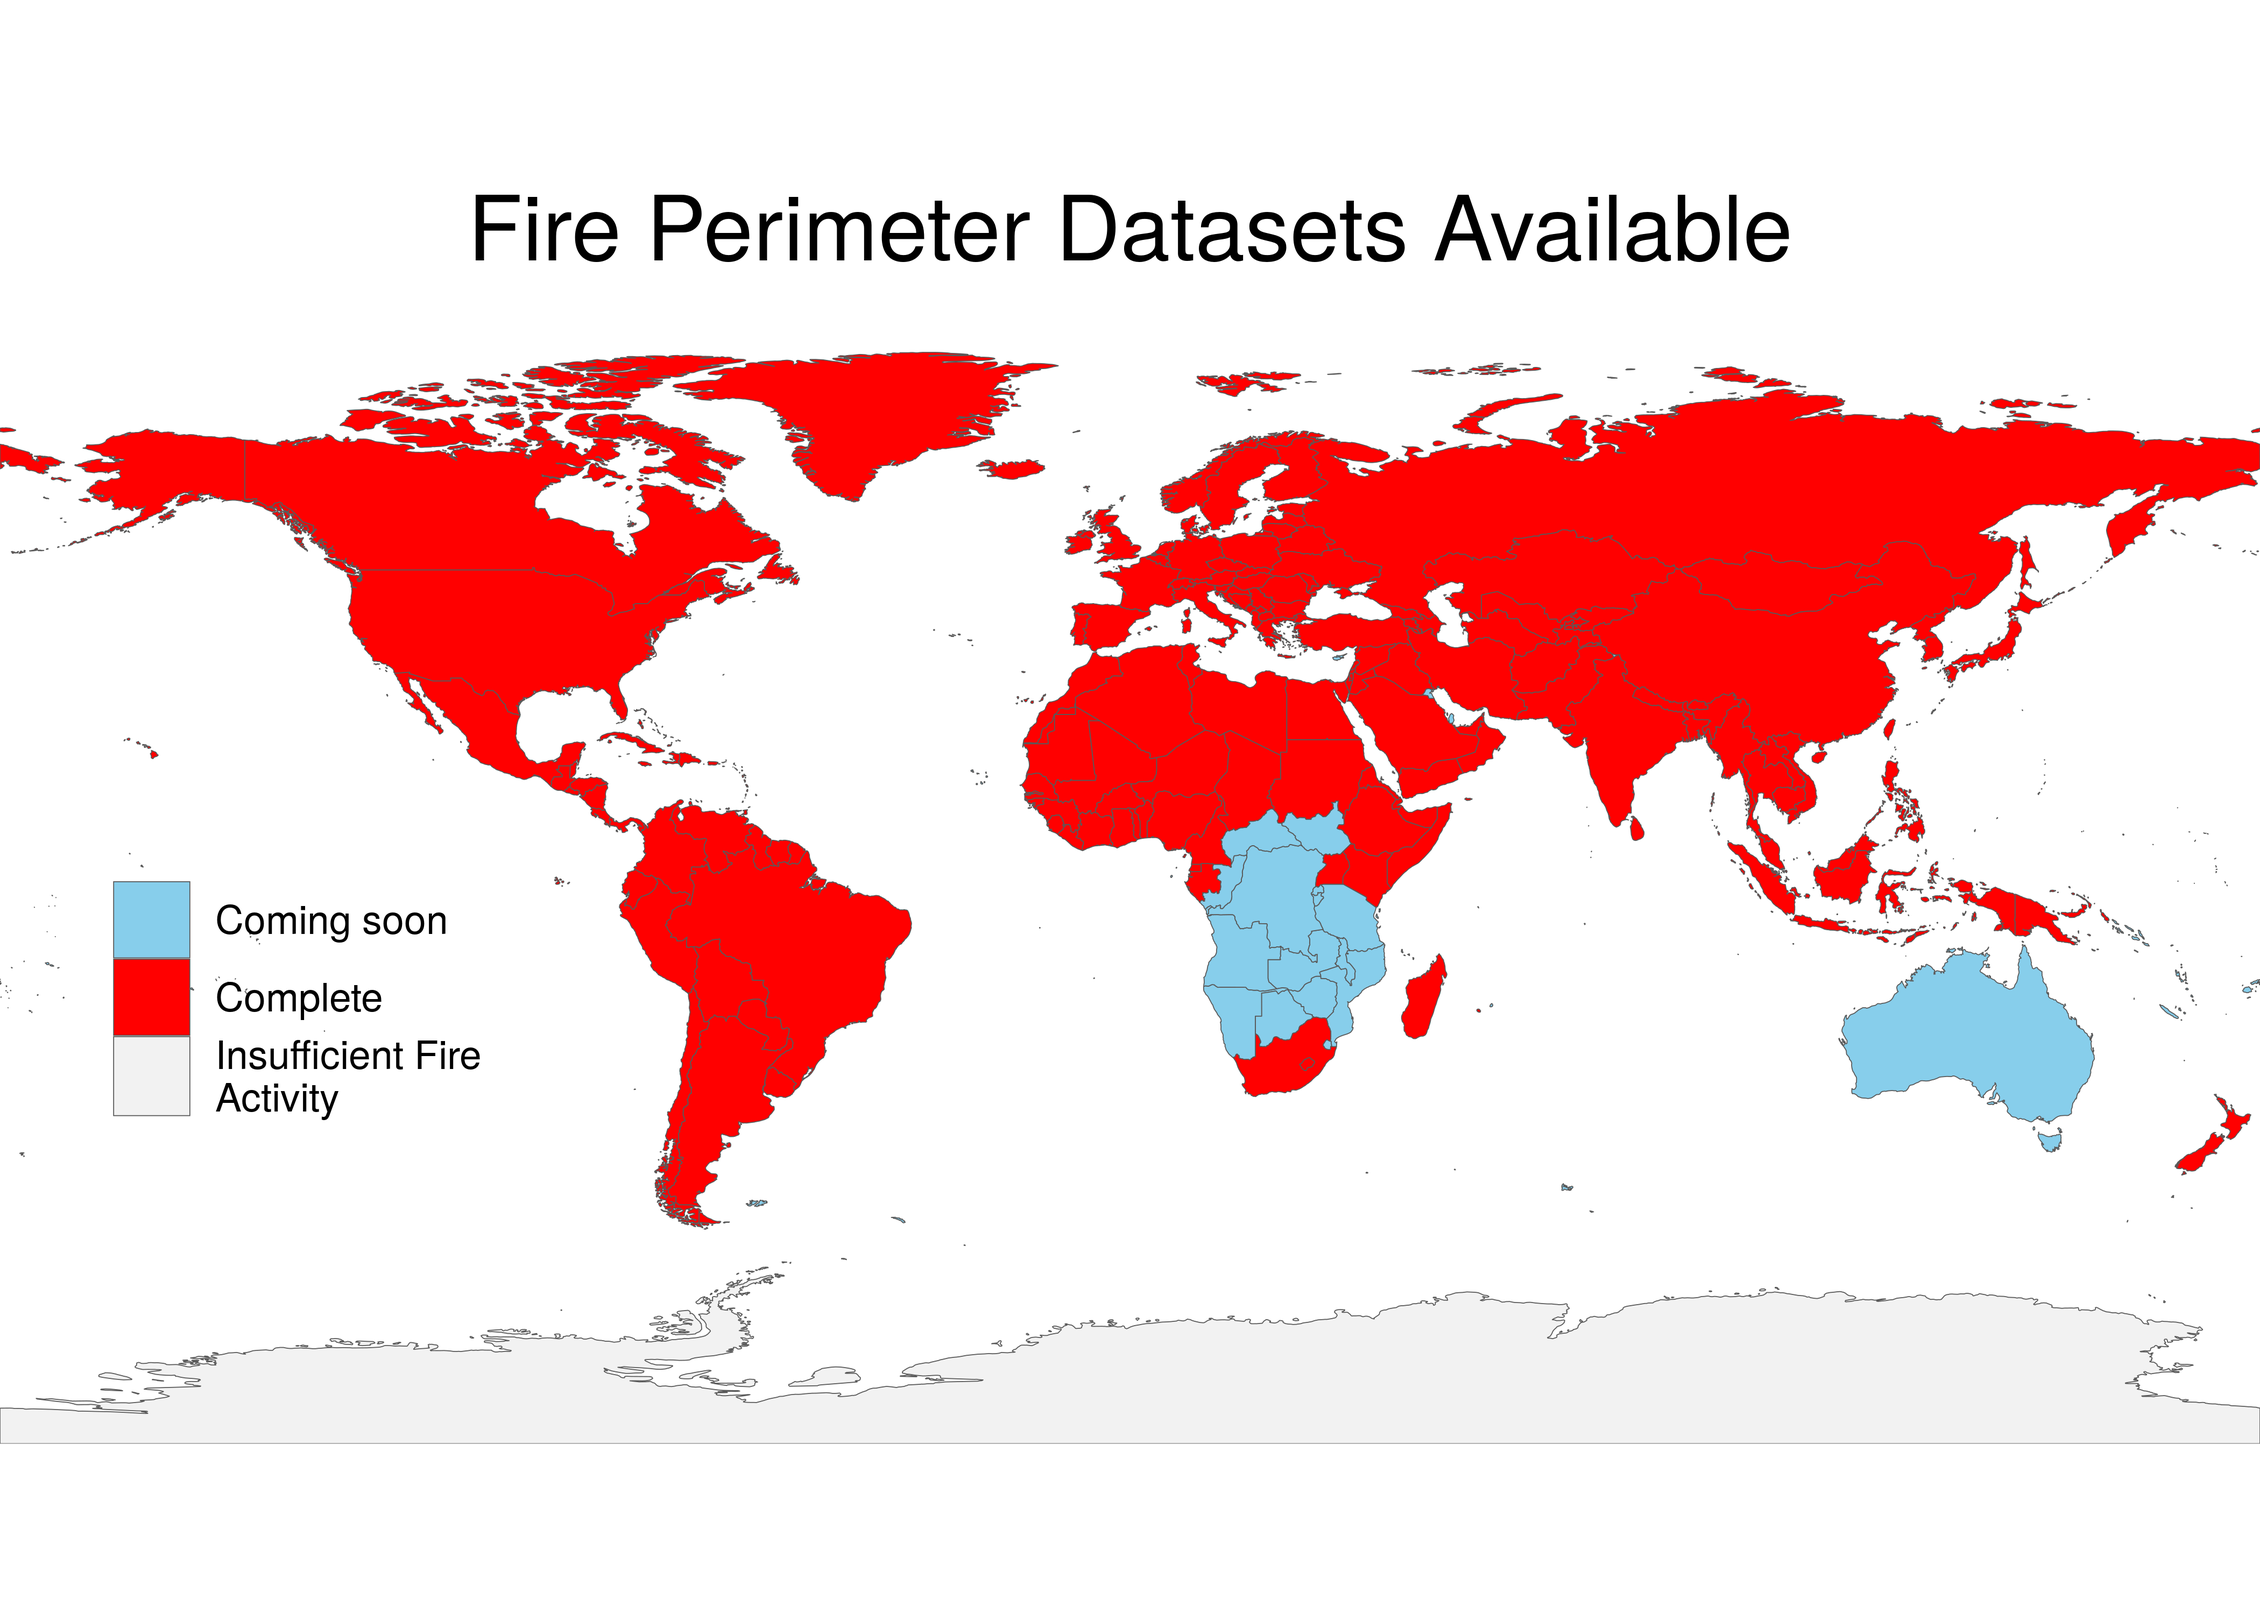
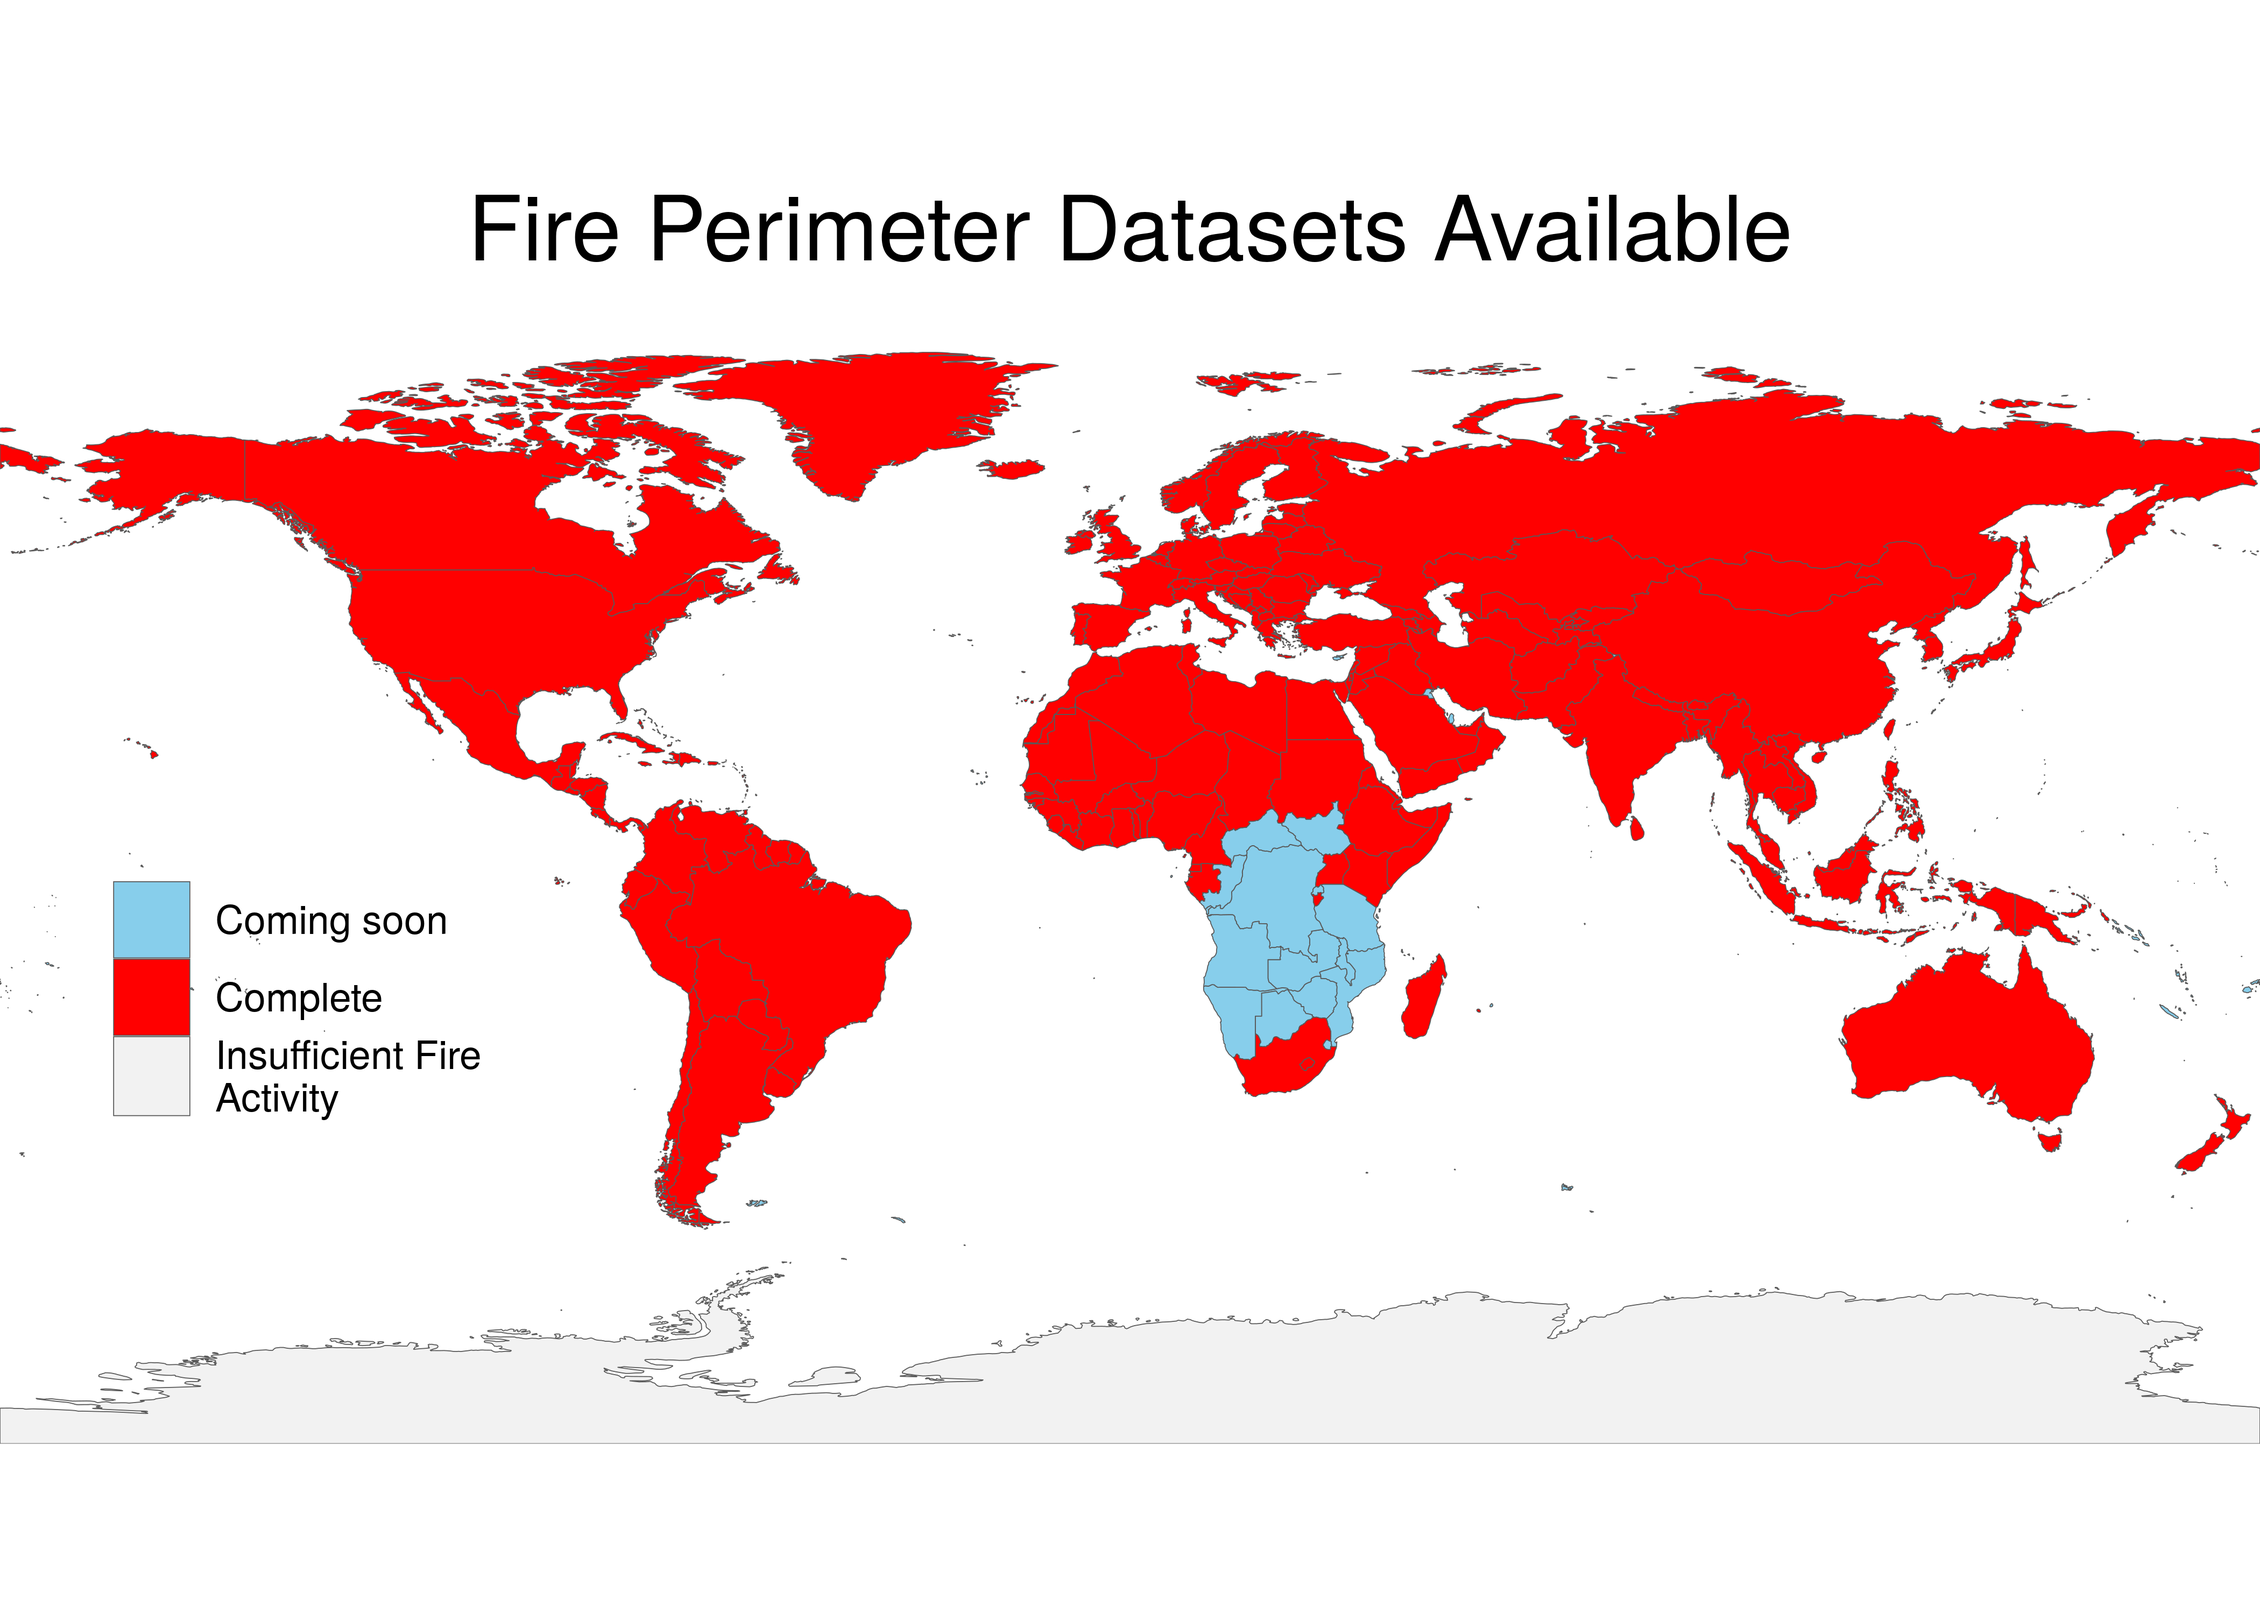
j

Changed region(s): [[0.811, 0.589, 0.9357, 0.713]]

diff --git a/README.md b/README.md
@@ -64,6 +64,7 @@ We currently have fire histories from November 2000 - May 2021 for:
  - [UK and Ireland](https://scholar.colorado.edu/concern/datasets/pc289k33c)
 
 ### Africa
+
  - [Senegal](https://scholar.colorado.edu/concern/datasets/tt44pp176)
  - [The Gambia](https://scholar.colorado.edu/concern/datasets/pn89d7911)
  - [Morocco](https://scholar.colorado.edu/concern/datasets/td96k3751)
@@ -96,8 +97,10 @@ We currently have fire histories from November 2000 - May 2021 for:
  - [Lesotho](https://scholar.colorado.edu/concern/datasets/cr56n229w)
  - [Uganda](https://scholar.colorado.edu/concern/datasets/hh63sx004)
  - [Kenya](https://scholar.colorado.edu/concern/datasets/1j92g871c)
+ - [Burundi](https://scholar.colorado.edu/concern/datasets/3f462659h)
 
 ### Asia
+
  - [China](https://scholar.colorado.edu/concern/datasets/qz20st810)
  - [India](https://scholar.colorado.edu/concern/datasets/ht24wk47t)
  - [Central Asia (Turkmenistan, Kazakhstan, Uzbekistan, Kyrgystan, Tajikistan, Afghanistan, and Pakistan)](https://scholar.colorado.edu/concern/datasets/47429b07v)
@@ -118,12 +121,15 @@ We currently have fire histories from November 2000 - May 2021 for:
  - [Myanmar](https://scholar.colorado.edu/concern/datasets/pk02cb86p)
 
 ### Australia (state by state)
+
  - [Tasmania](https://scholar.colorado.edu/concern/datasets/c534fq19w)
  - [Victoria](https://scholar.colorado.edu/concern/datasets/2r36tz74f)
  - [New South Wales + Capital Territory](https://scholar.colorado.edu/concern/datasets/37720d85c)
  - [Queensland](https://scholar.colorado.edu/concern/datasets/cr56n230n)
+ - [South Australia](https://scholar.colorado.edu/concern/datasets/fn107015p)
 
 ### Oceana
+
  - [Philippines](https://scholar.colorado.edu/concern/datasets/7d278v06f)
  - [Papua New Guinea](https://scholar.colorado.edu/concern/datasets/3r074w183)
  - [East Timor](https://scholar.colorado.edu/concern/datasets/j098zc184)
